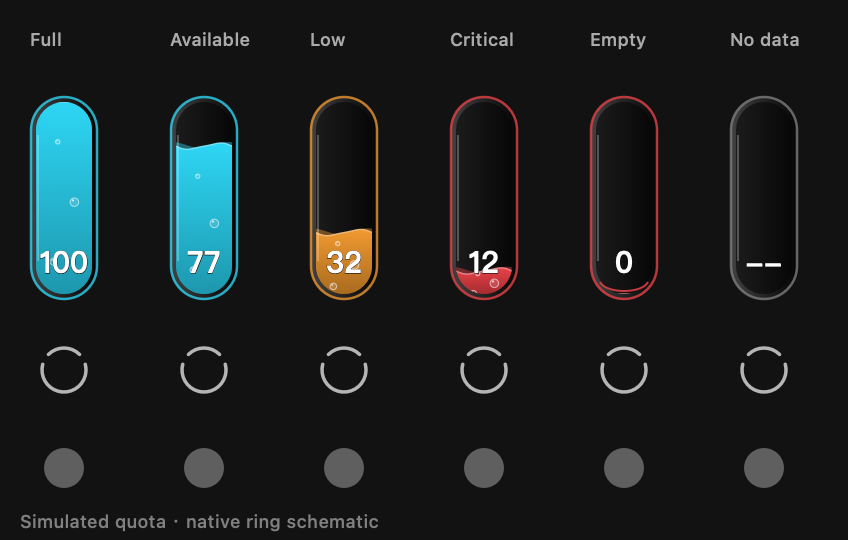
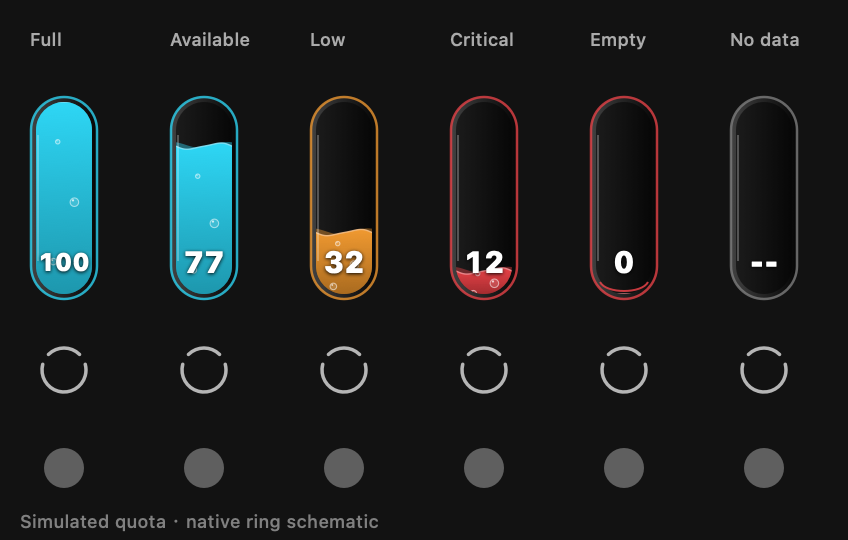
style: restore heavy quota numerals with diffuse shadow

diff --git a/Sources/QuotaDock/QuotaMeterView.swift b/Sources/QuotaDock/QuotaMeterView.swift
@@ -156,27 +156,26 @@ final class QuotaMeterView: NSView {
     private func drawPercent(in rect: NSRect, clip: NSBezierPath) {
         NSGraphicsContext.saveGraphicsState()
         clip.addClip()
+        let shadow = NSShadow()
+        shadow.shadowColor = NSColor.black.withAlphaComponent(0.95)
+        shadow.shadowBlurRadius = 4
+        shadow.shadowOffset = NSSize(width: 0, height: -0.5)
         let text = QuotaDisplayValue.text(for: remainingPercent)
         let paragraph = NSMutableParagraphStyle()
         paragraph.alignment = .center
-        let baseFont = NSFont(name: "PingFangSC-Semibold", size: 15)
-            ?? NSFont.systemFont(ofSize: 15, weight: .semibold)
+        let baseFont = NSFont.monospacedDigitSystemFont(ofSize: 15, weight: .heavy)
         let measuredWidth = (text as NSString).size(withAttributes: [.font: baseFont]).width
         let fontSize = min(15, 15 * (rect.width - 3) / max(1, measuredWidth))
         let attributes: [NSAttributedString.Key: Any] = [
-            .font: NSFont(name: "PingFangSC-Semibold", size: fontSize)
-                ?? NSFont.systemFont(ofSize: fontSize, weight: .semibold),
+            .font: NSFont.monospacedDigitSystemFont(ofSize: fontSize, weight: .heavy),
             .foregroundColor: NSColor.white,
-            .paragraphStyle: paragraph
+            .paragraphStyle: paragraph,
+            .shadow: shadow
         ]
         let string = NSAttributedString(string: text, attributes: attributes)
         let height = string.size().height
         let textRect = NSRect(x: rect.minX - 1, y: rect.minY + 16 - height / 2,
                               width: rect.width + 2, height: height)
-        var outline = attributes
-        outline[.strokeColor] = NSColor(calibratedWhite: 0.04, alpha: 1)
-        outline[.strokeWidth] = 4
-        NSAttributedString(string: text, attributes: outline).draw(in: textRect)
         string.draw(in: textRect)
         NSGraphicsContext.restoreGraphicsState()
     }

diff --git a/scripts/state-preview.swift b/scripts/state-preview.swift
@@ -1,6 +1,5 @@
 import AppKit
 
-precondition(NSFont(name: "PingFangSC-Semibold", size: 15) != nil, "PingFang SC Semibold is required for preview verification")
 
 // Synthetic sidebar layout. The native ring is a schematic, not an app capture.
 let canvas = NSSize(width: 424, height: 270)

diff --git a/docs/recreate-prompt.en.md b/docs/recreate-prompt.en.md
@@ -2,6 +2,6 @@
 
 [中文](recreate-prompt.md) | **English**
 
-Build a macOS quota overlay with Swift/AppKit. Place a 36×104 pt glass capsule above the ChatGPT/Codex avatar, with a 70 pt gap above the avatar and roughly 20 pt separation from the current native usage ring. Read the primary local Codex quota every 30 seconds, excluding Spark and preserving any source fractions. Represent remaining quota with the liquid height, two surface waves, and rising bubbles. At the bottom, show only a whole number, with no percent sign or background plate. Use a white up-to-15 pt PingFang SC Semibold font with a thin dark outline, shrinking long values to leave space at the sides. Use cyan for at least 50%, amber for 20% to below 50%, and red below 20%. Animate level changes over 0.6 seconds, pause when the target window is hidden, and keep the liquid still when Reduce Motion is enabled. Keep the cache across restarts with a 120-second cycle tolerance. Include tests and repeatable build, signing, and packaging scripts.
+Build a macOS quota overlay with Swift/AppKit. Place a 36×104 pt glass capsule above the ChatGPT/Codex avatar, with a 70 pt gap above the avatar and roughly 20 pt separation from the current native usage ring. Read the primary local Codex quota every 30 seconds, excluding Spark and preserving any source fractions. Represent remaining quota with the liquid height, two surface waves, and rising bubbles. At the bottom, show only a whole number, with no percent sign or background plate. Use a white up-to-15 pt monospaced heavy font with a diffuse black shadow, shrinking long values to leave space at the sides. Use cyan for at least 50%, amber for 20% to below 50%, and red below 20%. Animate level changes over 0.6 seconds, pause when the target window is hidden, and keep the liquid still when Reduce Motion is enabled. Keep the cache across restarts with a 120-second cycle tolerance. Include tests and repeatable build, signing, and packaging scripts.
 
 ![QuotaDock in six simulated quota states](images/quota-dock-en.gif)

diff --git a/docs/recreate-prompt.md b/docs/recreate-prompt.md
@@ -2,6 +2,6 @@
 
 **中文** | [English](recreate-prompt.en.md)
 
-用 Swift/AppKit 做一个 macOS 额度悬浮窗。在 ChatGPT/Codex 头像正上方放一根 36×104 pt 的玻璃胶囊，距头像顶部 70 pt，与当前原生用量圆环留出约 20 pt 间隔。读取本地 Codex 主额度，每 30 秒刷新，过滤 Spark，并保留回执的小数。用液面高度表示剩余百分比，加两层波动和上浮气泡。底部仅显示整数数值，不加百分号或底板，使用最多 15 pt 苹方简体 Semibold 白字与细深色描边，长数值自动缩小以留出空隙。至少 50% 为青蓝色，20% 到 49% 为橙，低于 20% 为红。液位变化用 0.6 秒缓动，窗口隐藏时暂停，系统减少动态效果时保持静止。保留跨重启缓存和 120 秒周期容差，附测试、构建、签名和打包脚本。
+用 Swift/AppKit 做一个 macOS 额度悬浮窗。在 ChatGPT/Codex 头像正上方放一根 36×104 pt 的玻璃胶囊，距头像顶部 70 pt，与当前原生用量圆环留出约 20 pt 间隔。读取本地 Codex 主额度，每 30 秒刷新，过滤 Spark，并保留回执的小数。用液面高度表示剩余百分比，加两层波动和上浮气泡。底部仅显示整数数值，不加百分号或底板，使用最多 15 pt 白色等宽重体与扩散黑色阴影，长数值自动缩小以留出空隙。至少 50% 为青蓝色，20% 到 49% 为橙，低于 20% 为红。液位变化用 0.6 秒缓动，窗口隐藏时暂停，系统减少动态效果时保持静止。保留跨重启缓存和 120 秒周期容差，附测试、构建、签名和打包脚本。
 
 ![QuotaDock 六种模拟额度状态](images/quota-dock.gif)

diff --git a/docs/behavior.en.md b/docs/behavior.en.md
@@ -4,7 +4,7 @@
 
 ## Window placement
 
-The gauge is 36 × 104 pt. Its center is 26 pt from the target window's left edge, and its bottom is 70 pt above the avatar. Panel offsets are 8 pt from the left and 107 pt from the bottom: 18 pt higher than 3.0.8, leaving roughly 20 pt of visual separation from the native usage ring in the current layout. Numbers use a white PingFang SC Semibold font with a thin dark outline up to 15 pt directly over the liquid without a background plate; longer values shrink to fit. Cyan means at least 50%, amber means 20% to below 50%, red means below 20%, and unavailable readings use a neutral gray outline.
+The gauge is 36 × 104 pt. Its center is 26 pt from the target window's left edge, and its bottom is 70 pt above the avatar. Panel offsets are 8 pt from the left and 107 pt from the bottom: 18 pt higher than 3.0.8, leaving roughly 20 pt of visual separation from the native usage ring in the current layout. Numbers use a white monospaced heavy font with a diffuse black shadow (4 pt blur radius) up to 15 pt directly over the liquid without a background plate; longer values shrink to fit. Cyan means at least 50%, amber means 20% to below 50%, red means below 20%, and unavailable readings use a neutral gray outline.
 
 The target must be an on-screen normal-level window owned by `ChatGPT` or `Codex`, at least 800 pt wide and 600 pt tall. Floating mini/pet windows are excluded. The gauge hides when no main window is found. These offsets match the current account-bar layout; future layout changes may require an update to `Sources/QuotaCore/BadgeLayout.swift`.
 

diff --git a/docs/behavior.md b/docs/behavior.md
@@ -4,7 +4,7 @@
 
 ## 窗口定位
 
-液体槽为 36 × 104 pt，中心距目标窗口左侧 26 pt，底边距头像顶部 70 pt。对应面板左侧偏移 8 pt、底部偏移 107 pt，比 3.0.8 再上移 18 pt；按当前布局与原生用量圆环留出约 20 pt 的视觉间隔。数字使用最多 15 pt 的苹方简体 Semibold 白字与细深色描边，数字直接叠在液面上，不使用底板，长数值按宽度缩小。至少 50% 为青蓝色，20% 到不足 50% 为琥珀色，低于 20% 为红色；无数据使用中性灰轮廓。
+液体槽为 36 × 104 pt，中心距目标窗口左侧 26 pt，底边距头像顶部 70 pt。对应面板左侧偏移 8 pt、底部偏移 107 pt，比 3.0.8 再上移 18 pt；按当前布局与原生用量圆环留出约 20 pt 的视觉间隔。数字使用最多 15 pt 的白色等宽重体与扩散黑色阴影（模糊半径 4 pt），数字直接叠在液面上，不使用底板，长数值按宽度缩小。至少 50% 为青蓝色，20% 到不足 50% 为琥珀色，低于 20% 为红色；无数据使用中性灰轮廓。
 
 目标是窗口所有者为 `ChatGPT` 或 `Codex`、普通窗口层级、宽至少 800 pt、高至少 600 pt 的可见窗口。mini／宠物浮动窗口不参与选择；找不到主窗口时隐藏。定位值针对当前新版账号栏布局，应用界面变化后可能需要调整 `Sources/QuotaCore/BadgeLayout.swift`。
 

diff --git a/README.en.md b/README.en.md
@@ -4,7 +4,7 @@
 
 A macOS liquid gauge for your remaining Codex quota. It sits above your avatar, follows the main window, and lets mouse clicks pass through.
 
-![QuotaDock in six simulated quota states](https://raw.githubusercontent.com/wind8ai/quota-dock/main/docs/images/quota-dock-en.gif?v=ab442b37fde9)
+![QuotaDock in six simulated quota states](https://raw.githubusercontent.com/wind8ai/quota-dock/main/docs/images/quota-dock-en.gif?v=5479cd90a0a4)
 
 Current version: **3.0.9 / build 22**. Cyan means at least 50% remains, amber means 20% to below 50%, and red means below 20%. `0` leaves a thin red line; `--` means no reading or cached value is available. The preview uses simulated values and a schematic native ring.
 

diff --git a/README.md b/README.md
@@ -4,7 +4,7 @@
 
 把 Codex 的剩余额度放在头像上方的 macOS 液体槽。液面表示剩余比例，底部显示整数；窗口移动时跟随，鼠标可以穿透。
 
-![QuotaDock 六种模拟额度状态](https://raw.githubusercontent.com/wind8ai/quota-dock/main/docs/images/quota-dock.gif?v=e8bd6ee8fe72)
+![QuotaDock 六种模拟额度状态](https://raw.githubusercontent.com/wind8ai/quota-dock/main/docs/images/quota-dock.gif?v=3f7738cc93c1)
 
 当前版本 **3.0.9 / build 22**。青蓝色表示剩余至少 50%，琥珀色表示 20% 到不足 50%，红色表示不足 20%。`0` 保留红色细线，`--` 表示没有数据或缓存。图中六种额度均为模拟值，下方原生圆环为布局示意。
 

diff --git a/CHANGELOG.en.md b/CHANGELOG.en.md
@@ -5,7 +5,7 @@
 ## 3.0.9 · build 22
 
 - Raise the gauge another 18 pt to separate it from the native usage ring; resize to 36 × 104 pt.
-- Use cyan for healthy quota, a stronger outline and PingFang SC Semibold numbers up to 15 pt with a thin dark outline, without blurred shadows or a background plate.
+- Use cyan for healthy quota, a stronger outline and monospaced heavy numbers up to 15 pt with a stronger diffuse black shadow, without an outline or background plate.
 - Refresh bilingual six-state previews with a schematic native ring.
 - Preserve quota reading, caching, window anchoring and panel recovery behavior.
 

diff --git a/CHANGELOG.md b/CHANGELOG.md
@@ -5,7 +5,7 @@
 ## 3.0.9 · build 22
 
 - 用量条再上移 18 pt，与当前原生用量圆环留出视觉间隔，尺寸调整为 36 × 104 pt。
-- 充足状态改为青蓝色，增强轮廓，数字使用最多 15 pt 苹方简体 Semibold 与细深色描边，不使用模糊阴影或数字底板。
+- 充足状态改为青蓝色，增强轮廓，数字恢复最多 15 pt 等宽重体，增强扩散黑色阴影，不使用描边或数字底板。
 - 更新六状态中英预览，下方原生圆环仅为布局示意。
 - 保留原有读取、缓存、窗口绑定与面板恢复逻辑。
 
